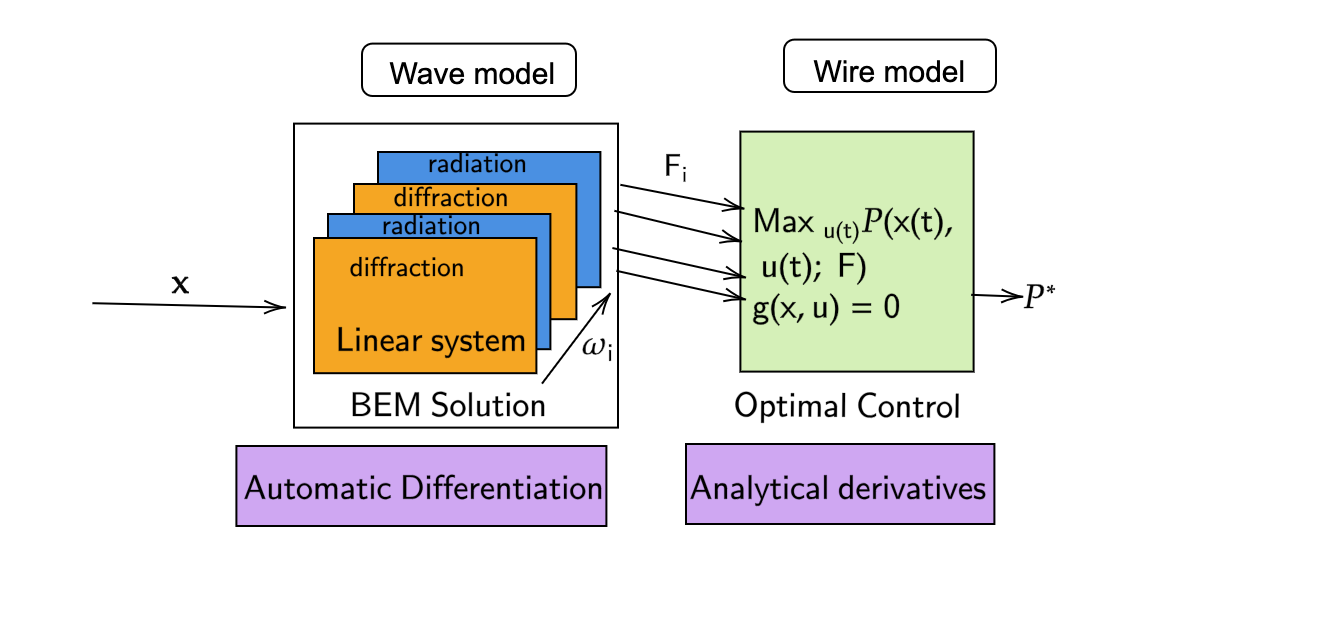
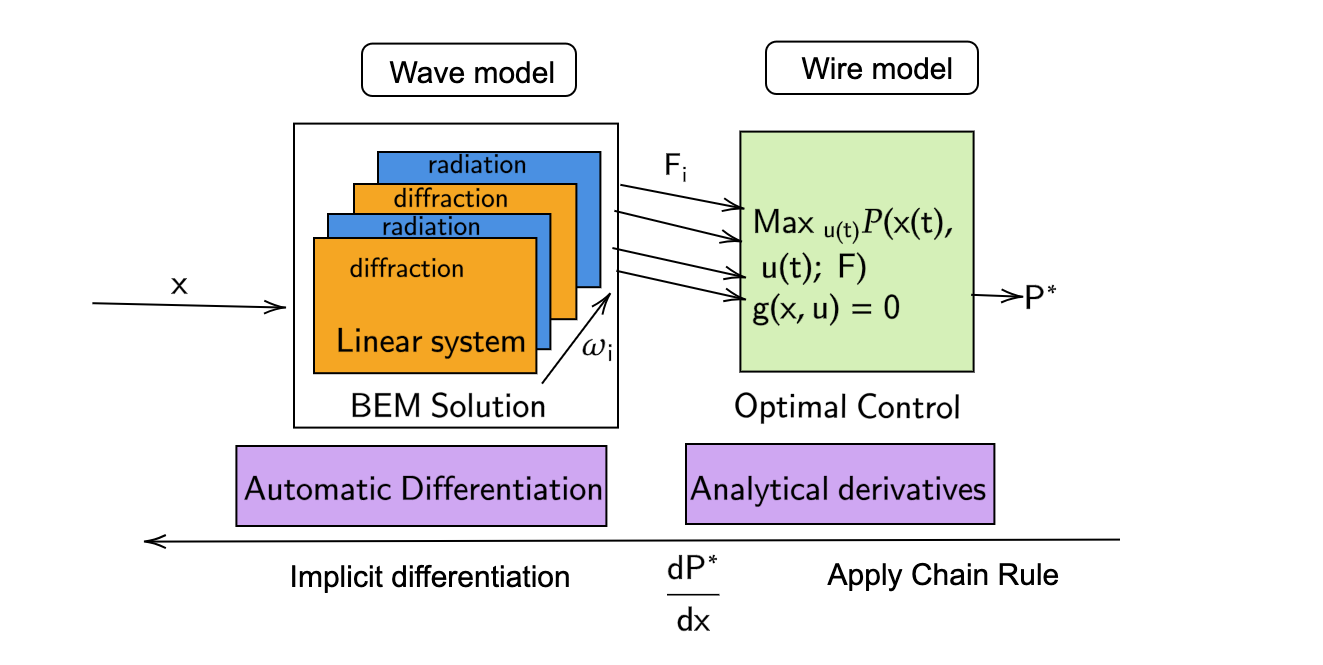
fix2

diff --git a/introMarineHydro.html b/introMarineHydro.html
@@ -364,18 +364,18 @@
 <ul>
 <li class="fragment"><a href="#/diffferentiable-wave-to-wire-model-of-wecs">Optimal Controls</a></li>
 </ul></li>
-<li class="fragment"><a href="#/sec-references">References</a></li>
+<li class="fragment"><a href="#/sec-references">Conclusion</a></li>
 <li class="fragment"><a href="#/sec-extras">Extras</a></li>
 </ol>
 </section>
 <section id="optimizing-large-systems" class="slide level2 centeredslide">
 <h2>Optimizing large systems</h2>
 <div class="columns">
-<div class="column" style="width:100%;">
+<div class="column" style="width:110%;">
 <p><span class="green-text"> Can be coupled or uncoupled</span></p>
 <p>Numerical simulations of subsystems</p>
 <p>Transformations on data through mathematical operations</p>
-</div><div class="column" style="width:110%;">
+</div><div class="column" style="width:100%;">
 <div id="fig" style="margin-top: 20px;">
 <div class="quarto-figure quarto-figure-center">
 <figure>
@@ -383,12 +383,11 @@
 </figure>
 </div>
 </div>
-<p>Both systems on large scale are optimized using<br>
-<code>backpropagation (a.k.a adjoint method) and implicit differentiation</code>.</p>
+<p>Optimized using <code>backpropagation</code> (adjoint).</p>
 </div></div>
 </section>
-<section id="system-optimization" class="slide level2 centeredslide">
-<h2>System optimization</h2>
+<section id="physical-system-optimization" class="slide level2 centeredslide">
+<h2>Physical System Optimization</h2>
 <div class="columns">
 <div class="column" style="width:50%;">
 <div title="Optimization of the entire system for renewable energy system $(\mathcal{S})$" style="text-align:left; !important">
@@ -531,6 +530,16 @@ Case study: <code>Wave energy converters (WEC) </code>
 <li class="fragment">For every WEC design, optimal control strategy is computed - nested optimization.</li>
 <li class="fragment">Need for a differentiable wave to wire model</li>
 <li class="fragment">Backpropagation through the inner optimization model</li>
+</ul>
+</section>
+<section id="conclusion" class="slide level2">
+<h2>Conclusion</h2>
+<p>So far I have shown:</p>
+<ul>
+<li class="fragment"><p>Differentiable hydrodynamic analysis using MarineHydro.jl</p></li>
+<li class="fragment"><p>Differentiable wave to wire model</p></li>
+<li class="fragment"><p>Differentiable optimization of coupled systems</p></li>
+<li class="fragment"><p>Next: Differentiable optimization of farm of WECs</p></li>
 </ul>
 </section>
 <section id="thank-you" class="slide level2 centeredslide">

diff --git a/introMarineHydro.md b/introMarineHydro.md
@@ -65,14 +65,14 @@ title-slide-attributes:
     - - [MarineHydro.jl](#sec-marinehydro)
 3. [Differentiable wave to wire](#sec-codesign)
     - [Optimal Controls](#wave-to-wire-optimization)
-3. [References](#sec-references)
+3. [Conclusion](#sec-references)
 4. [Extras](#sec-extras)
 
 
 ## Optimizing large systems {.centeredslide}
 
 ::: {.columns}
-::: {.column width="100%"}
+::: {.column width="110%"}
 <span class="green-text"> Can be coupled or uncoupled</span> 
 
 Numerical simulations of subsystems
@@ -80,21 +80,18 @@ Numerical simulations of subsystems
 Transformations on data through mathematical operations
 :::
 
-::: {.column width="110%"}
+::: {.column width="100%"}
 <div id="fig" style="margin-top: 20px;">
 ![](Images/coupled_uncoupled.png){fig-align="center" width="60%"} 
 </div>
 
-Both systems on large scale are optimized using  
-<code>backpropagation (a.k.a adjoint method) and implicit differentiation</code>. 
-
-
+Optimized using  <code>backpropagation</code> (adjoint). 
 :::
 :::
 
 
 
-## System optimization {.centeredslide}
+## Physical System Optimization {.centeredslide}
 
 :::: {.columns}
 ::: {.column width="50%"}
@@ -219,6 +216,19 @@ Case study: <code>Wave energy converters (WEC) </code>
 - For every WEC design, optimal control strategy is computed - nested optimization.
 - Need for a differentiable wave to wire model 
 - Backpropagation through the inner optimization model
+
+## Conclusion
+So far I have shown:
+
+- Differentiable hydrodynamic analysis using MarineHydro.jl
+
+- Differentiable wave to wire model
+
+- Differentiable optimization of coupled systems
+
+- Next: Differentiable optimization of farm of WECs
+
+
 
 ## **Thank you**{.centeredslide} 
 
